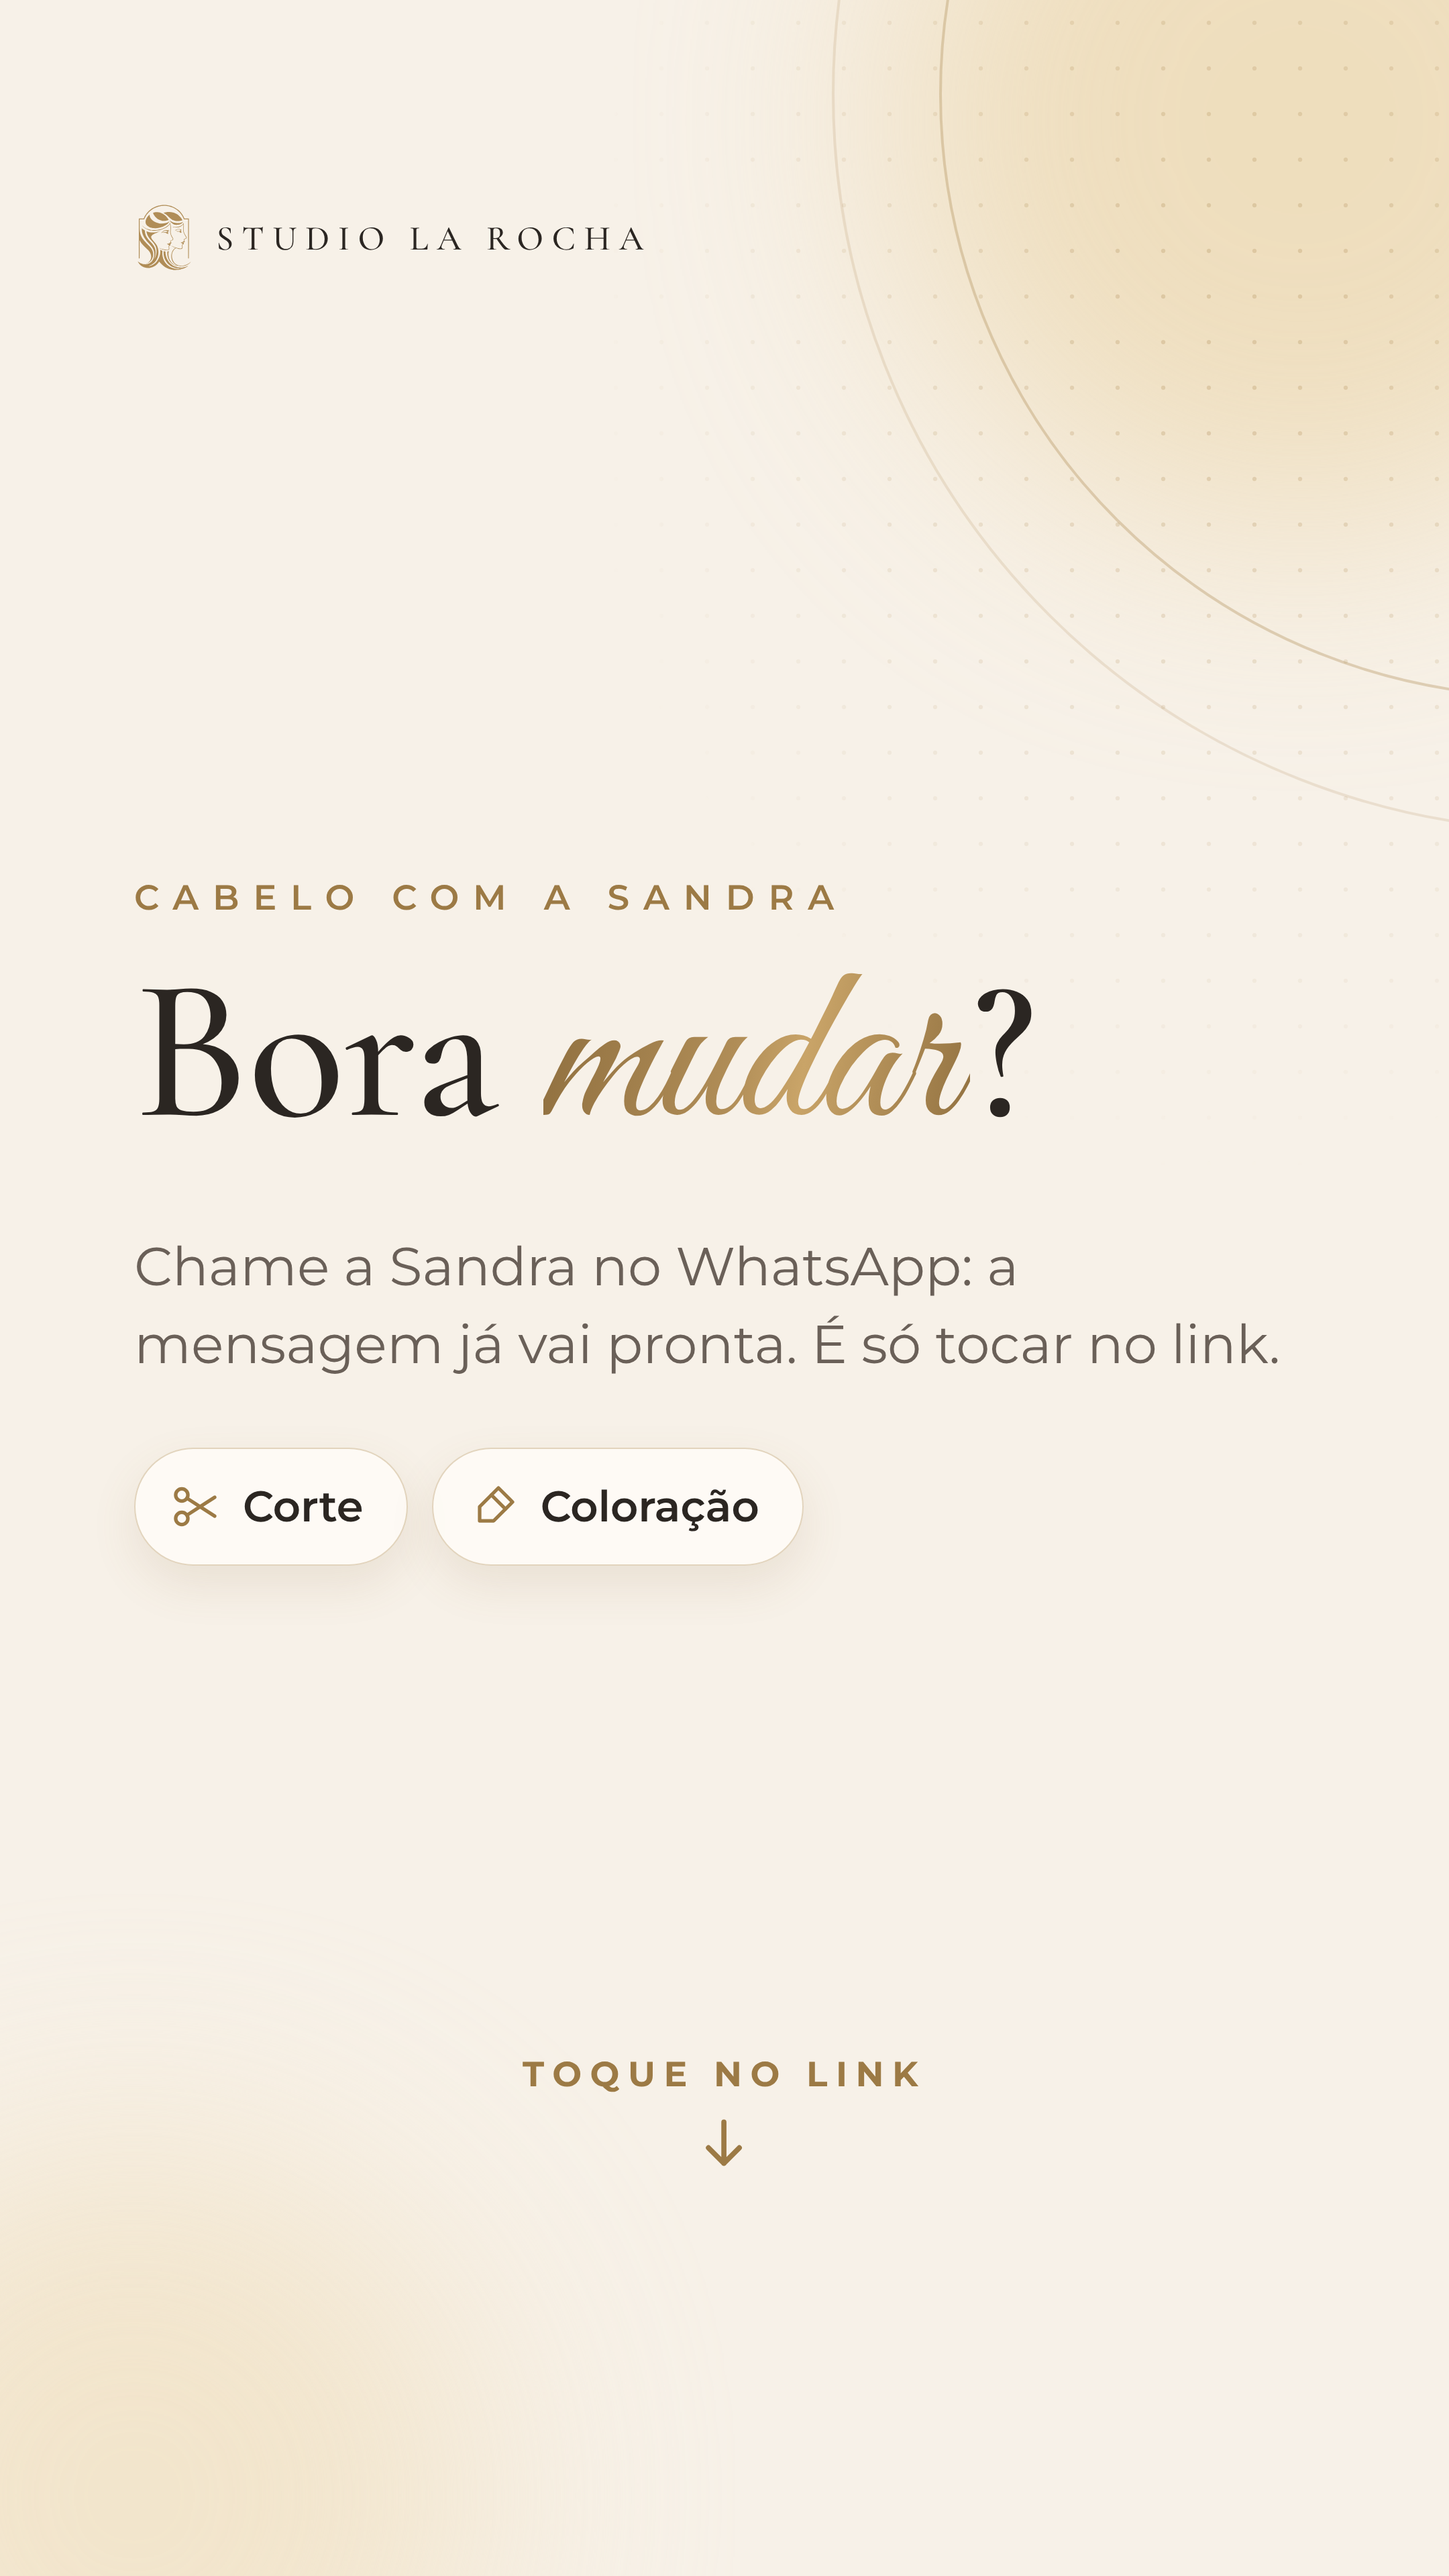
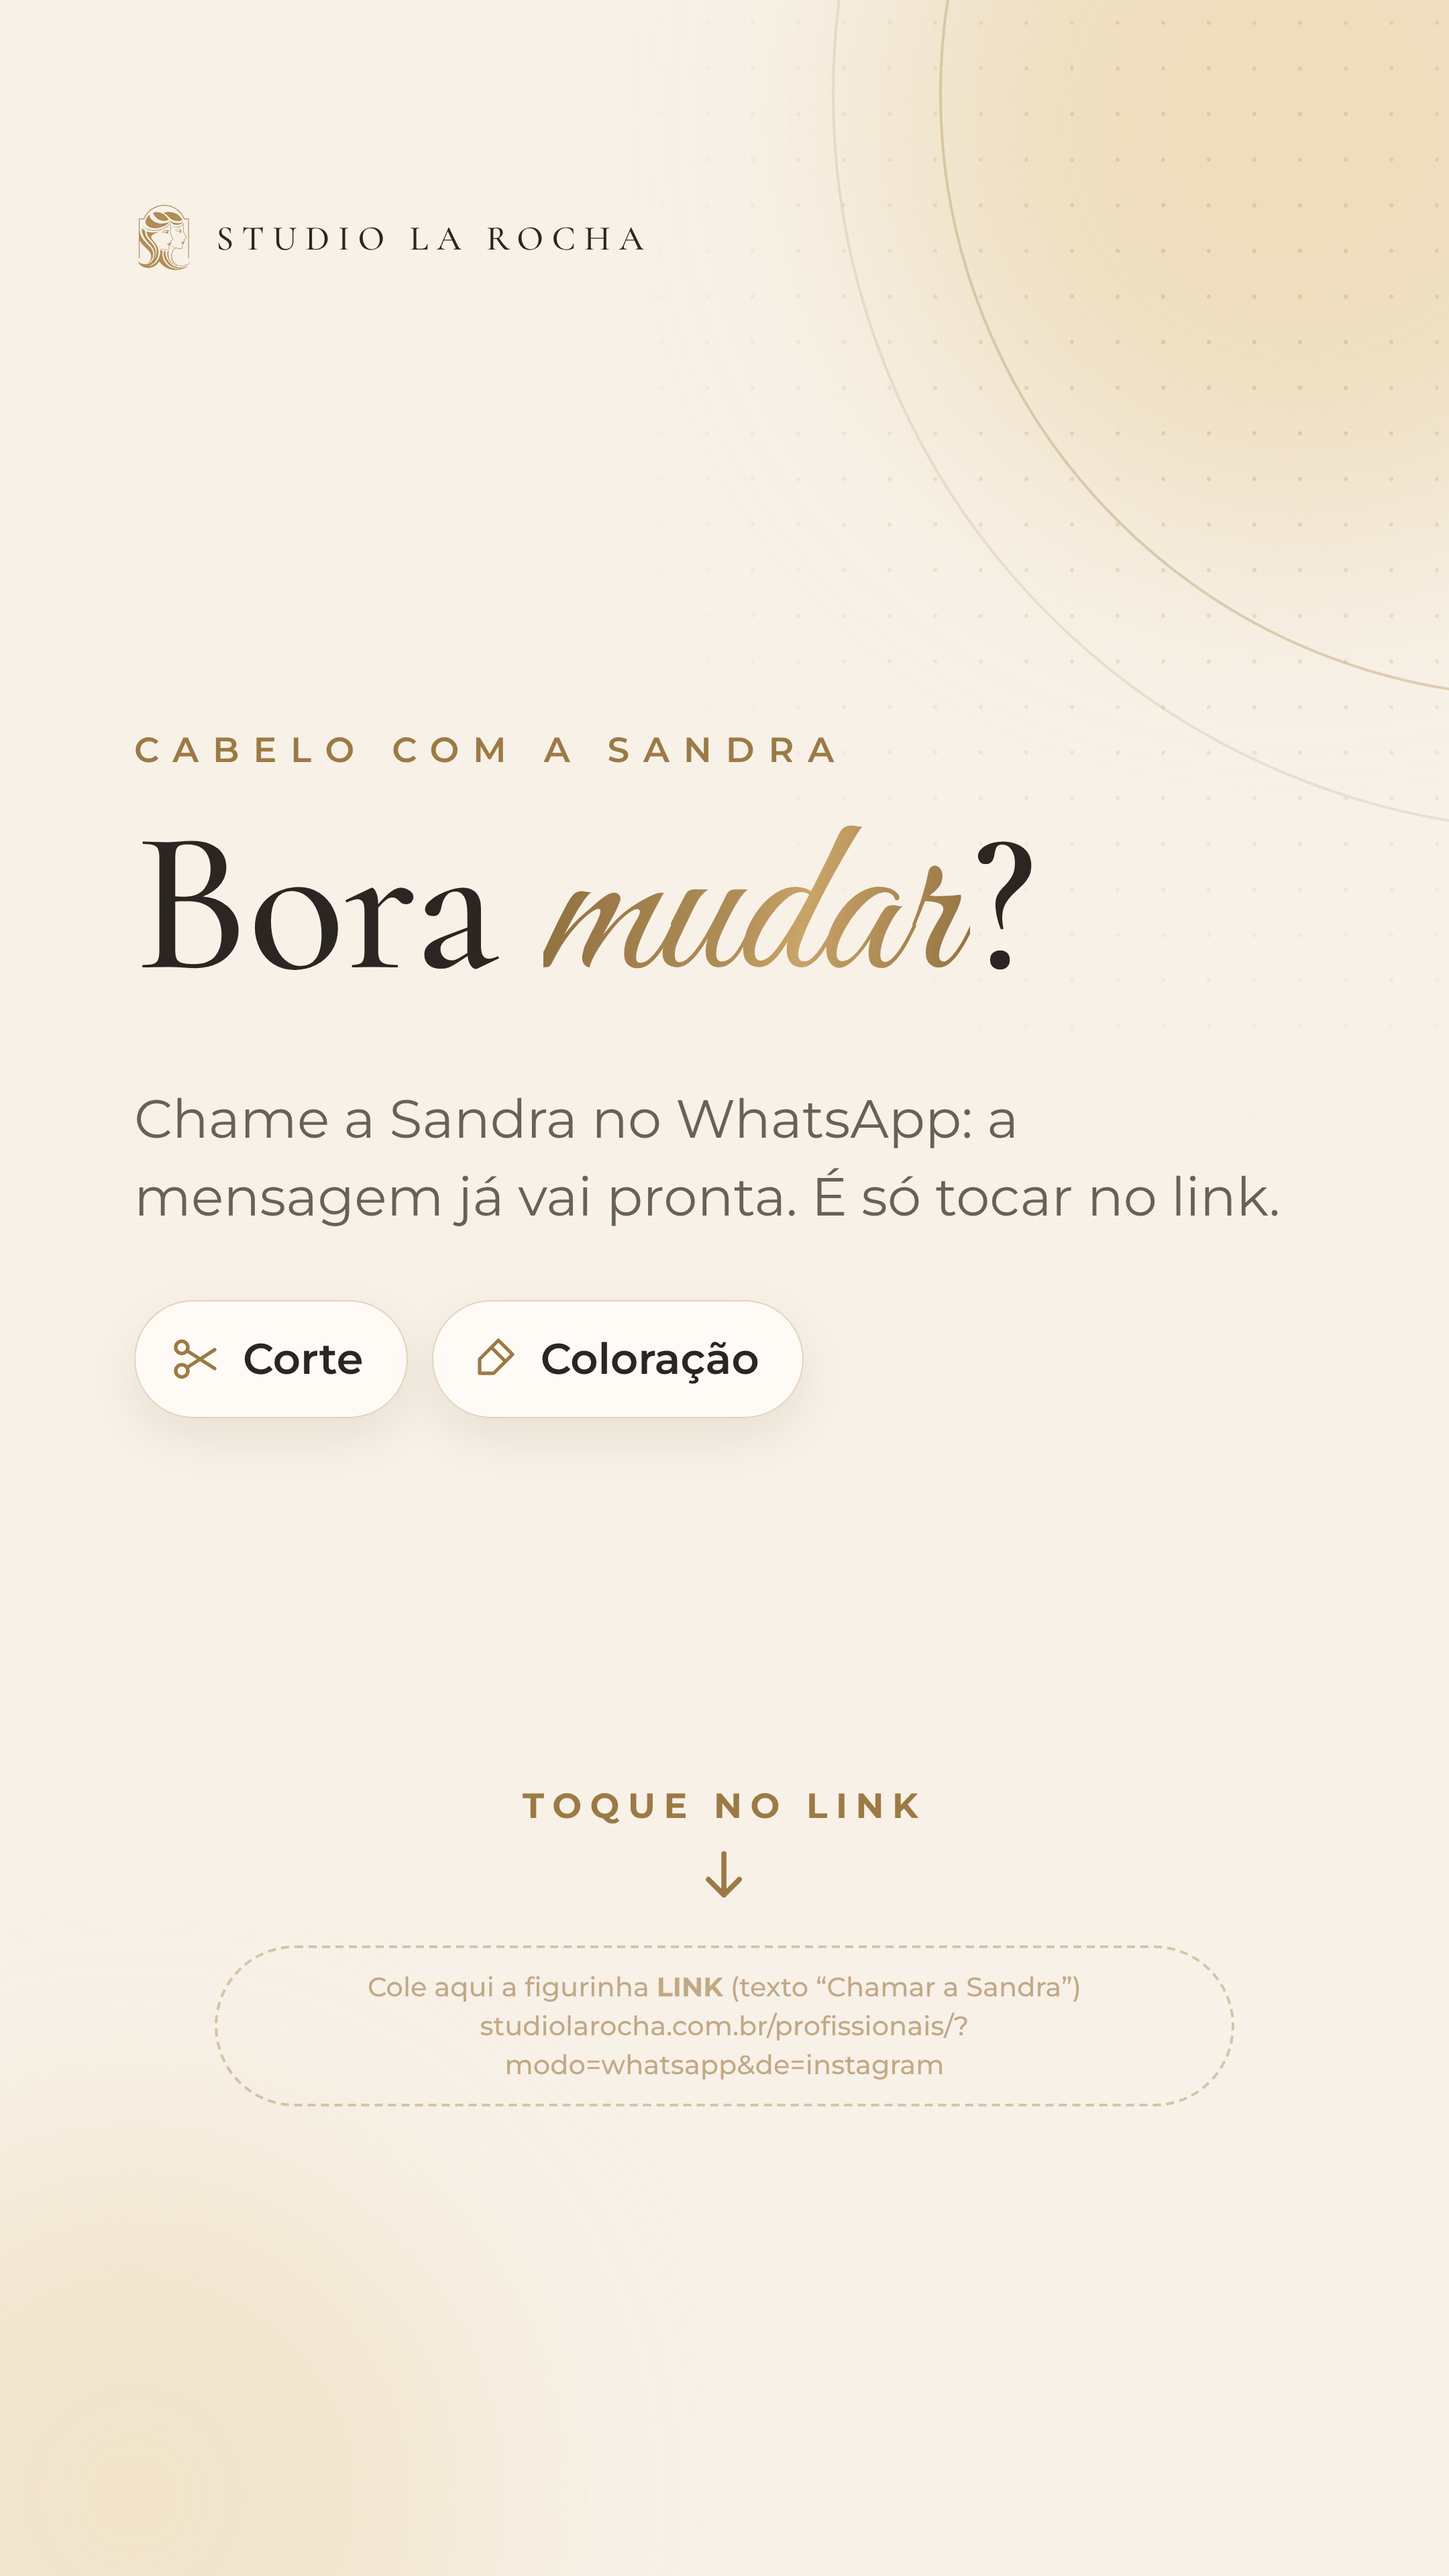
Stories: instruções discretas de figurinha dentro dos quadros (enquete, perguntas, link)
Claude-Session: https://claude.ai/code/session_01XzVqx6kG6obyTxXfpJ6DA2

diff --git a/instagram/fonte/stories-carrossel.html b/instagram/fonte/stories-carrossel.html
@@ -146,6 +146,14 @@
   .car .servico h3 { font-size: 40px; } .car .servico p { font-size: 29px; }
   .car .gancho { font-size: 150px; }
   .car .lead { font-size: 38px; }
+  .vote { justify-content: space-between; padding-bottom: 34px; }
+  .dica-fig { display: block; text-align: center; font-size: 25px; line-height: 1.55; font-weight: 500; max-width: 700px; margin: auto; }
+  .claro .dica-fig { color: rgba(156,122,69,.6); } .escuro .dica-fig { color: rgba(201,164,104,.55); }
+  .dica-fig em { font-style: normal; font-weight: 700; }
+  .st .seta-baixo { bottom: 500px; }
+  .alvo-link { position: absolute; left: 50%; transform: translateX(-50%); bottom: 350px; width: 760px; height: 120px; border-radius: 99px; display: grid; place-items: center; text-align: center; padding: 0 40px; }
+  .claro .alvo-link { border: 2px dashed rgba(176,141,87,.45); } .escuro .alvo-link { border: 2px dashed rgba(201,164,104,.45); }
+  #s1-3, #s2-3 { padding-bottom: 640px; }
 </style>
 <style>
   /* ---------- stories 1080x1920 (zona segura: 250px em cima, 340px embaixo) ---------- */
@@ -209,7 +217,7 @@
 <div class="rotulo">Fim de ano chegando…</div>
 <h2 class="gancho">Qual o seu <em>cansaço</em>?</h2>
 <p class="lead">Vote aqui embaixo. Na próxima tela, a gente te conta o que pode ajudar. 🤍</p>
-<div class="vote"><b>Vote aqui</b></div></section>
+<div class="vote"><b>Vote aqui</b><span class="dica-fig">Cole aqui a figurinha <em>ENQUETE</em><br>Pergunta: “Qual o seu cansaço?”<br>Opções: “Cabeça a mil 🤯” e “Corpo travado 😮💨”</span></div></section>
 <section class="post chamada st claro centro" id="s1-2"><i class="luz a"></i><i class="luz b"></i><div class="pontos"></div><div class="arco um"></div><div class="arco dois"></div><div class="topo"><div class="mini"><img src="simbolo-colorido.svg" alt="">STUDIO LA ROCHA</div></div>
 <div class="rotulo">Votou em qualquer uma?</div>
 <h2 class="gancho">A gente tem um <em>cuidado</em> pra isso</h2>
@@ -221,23 +229,23 @@
 <div class="mes">Dezembro</div>
 <p class="lead">Últimas vagas aos sábados. Escolha o seu e garanta o seu horário:</p>
 <div class="sabs"><div class="sab"><small>Sábado</small><strong>12</strong><span>Vagas</span></div><div class="sab"><small>Sábado</small><strong>19</strong><span>Vagas</span></div></div>
-<div class="seta-baixo">Toque no link<svg viewBox="0 0 24 24" fill="none" stroke="#E3C88F" stroke-width="2" stroke-linecap="round" stroke-linejoin="round"><path d="M12 4v16M6 14l6 6 6-6"/></svg></div></section>
+<div class="seta-baixo">Toque no link<svg viewBox="0 0 24 24" fill="none" stroke="#E3C88F" stroke-width="2" stroke-linecap="round" stroke-linejoin="round"><path d="M12 4v16M6 14l6 6 6-6"/></svg></div><div class="alvo-link"><span class="dica-fig" style="font-size:20px;line-height:1.45">Cole aqui a figurinha <em>LINK</em> (texto “Agendar meu sábado”)<br>studiolarocha.com.br/agenda/?p=amanda</span></div></section>
 <section class="post chamada st claro" id="s2-1"><i class="luz a"></i><i class="luz b"></i><div class="pontos"></div><div class="arco um"></div><div class="arco dois"></div><div class="topo"><div class="mini"><img src="simbolo-colorido.svg" alt="">STUDIO LA ROCHA</div></div>
 <div class="rotulo">Pergunte à Sandra</div>
 <h2 class="gancho">Corte ou <em>cor</em>?</h2>
 <p class="lead">Manda aqui a sua dúvida sobre <b>corte</b> ou <b>coloração</b>. A Sandra responde aqui nos stories. ✂</p>
-<div class="vote"><b>Sua pergunta</b></div></section>
+<div class="vote"><b>Sua pergunta</b><span class="dica-fig">Cole aqui a figurinha <em>PERGUNTAS</em><br>Texto: “Sua dúvida de corte ou cor 💇♀”</span></div></section>
 <section class="post chamada st escuro" id="s2-2"><i class="luz a"></i><i class="luz b"></i><div class="pontos"></div><div class="arco um"></div><div class="arco dois"></div><div class="topo"><div class="mini"><img src="simbolo-claro-transp.svg" alt="">STUDIO LA ROCHA</div></div>
 <div class="rotulo">Responde rapidinho</div>
 <h2 class="gancho">Fim de ano pede <em>mudança</em>?</h2>
 <p class="lead">Corte novo, cor nova ou os dois? Conta pra gente. 💛</p>
-<div class="vote"><b>Vote aqui</b></div></section>
+<div class="vote"><b>Vote aqui</b><span class="dica-fig">Cole aqui a figurinha <em>ENQUETE</em><br>Opções: “Corte novo ✂” e “Cor nova 🎨”</span></div></section>
 <section class="post chamada st claro centro" id="s2-3"><i class="luz a"></i><i class="luz b"></i><div class="pontos"></div><div class="arco um"></div><div class="arco dois"></div><div class="topo"><div class="mini"><img src="simbolo-colorido.svg" alt="">STUDIO LA ROCHA</div></div>
 <div class="rotulo">Cabelo com a Sandra</div>
 <h2 class="gancho">Bora <em>mudar</em>?</h2>
 <p class="lead">Chame a Sandra no WhatsApp: a mensagem já vai pronta. É só tocar no link.</p>
 <div class="pilulas"><span class="pilula"><svg viewBox="0 0 24 24" fill="none" stroke="#9C7A45" stroke-width="1.5" stroke-linecap="round" stroke-linejoin="round"><circle cx="6" cy="7" r="2.6"/><circle cx="6" cy="17" r="2.6"/><path d="M8.2 8.4L20 16M8.2 15.6L20 8"/></svg>Corte</span><span class="pilula"><svg viewBox="0 0 24 24" fill="none" stroke="#9C7A45" stroke-width="1.5" stroke-linecap="round" stroke-linejoin="round"><path d="M14 4l6 6-8 8H6v-6z"/><path d="M11 7l6 6"/></svg>Coloração</span></div>
-<div class="seta-baixo">Toque no link<svg viewBox="0 0 24 24" fill="none" stroke="#9C7A45" stroke-width="2" stroke-linecap="round" stroke-linejoin="round"><path d="M12 4v16M6 14l6 6 6-6"/></svg></div></section>
+<div class="seta-baixo">Toque no link<svg viewBox="0 0 24 24" fill="none" stroke="#9C7A45" stroke-width="2" stroke-linecap="round" stroke-linejoin="round"><path d="M12 4v16M6 14l6 6 6-6"/></svg></div><div class="alvo-link"><span class="dica-fig" style="font-size:20px;line-height:1.45">Cole aqui a figurinha <em>LINK</em> (texto “Chamar a Sandra”)<br>studiolarocha.com.br/profissionais/?modo=whatsapp&amp;de=instagram</span></div></section>
 <section class="post car escuro centro" id="k1"><i class="luz a"></i><i class="luz b"></i><div class="pontos"></div><div class="arco um"></div><div class="arco dois"></div><div class="topo"><div class="mini"><img src="simbolo-claro-transp.svg" alt="">STUDIO LA ROCHA</div><span class="pag">01 / 06</span></div><div class="rotulo">Antes da correria de dezembro</div>
 <h2 class="gancho">O seu checklist de <em>autocuidado</em></h2>
 <p class="lead">Quatro cuidados para chegar ao fim do ano se sentindo bem com você. Quantos você já marcou?</p><div class="marca-rod">@STUDIOLAROCHA</div><div class="arraste">Arraste<svg viewBox="0 0 24 24" fill="none" stroke="#E3C88F" stroke-width="2" stroke-linecap="round" stroke-linejoin="round"><path d="M5 12h14M13 6l6 6-6 6"/></svg></div></section>

diff --git a/CLAUDE.md b/CLAUDE.md
@@ -71,7 +71,7 @@ Este arquivo é a memória do projeto. Quem continuar o trabalho (Claude ou pess
 - **3 posts de chamada** (gancho para prender atenção; a Amanda posta): Auriculoterapia ("Cabeça a mil? Sono leve?"), Limpeza de pele ("Pele cansada?"), Manicure e pedicure. Fonte `instagram/fonte/chamadas.html`, `node exportar-chamadas.cjs`; legendas na seção 3a do LEIA-ME. Saúde: só "pode ajudar" + aviso; sem prometer resultado. Pedicure já é oferecida (sem selo "em breve").
 - **Aviso de agenda da Amanda (nov/2026):** destaque em "Dezembro"; sábados 5 e 26 lotados, 12 e 19 com vagas (gatilho de escassez real, sem inventar); feed e story. Fonte `instagram/fonte/aviso-agenda.html` (lista `SABADOS` no topo do gerador, já gravada no HTML).
 - **3 posts de dicas** (`dica-1-pele`, `dica-2-unhas`, `dica-3-sono`; fonte `fonte/dicas.html`, `node exportar-dicas.cjs`): conteúdo para salvar/compartilhar. Dicas só gerais; Amanda revisa pele e sono, Sandra revisa unhas.
-- **Stories e carrossel (10/11):** pasta `instagram/stories/` (Story 1 "Qual o seu cansaço?" → auriculoterapia → link da agenda da Amanda; Story 2 "Corte ou cor?" da Sandra com caixinha, enquete e link do WhatsApp) e `instagram/carrossel-checklist/` (6 slides "Checklist de autocuidado"). Fonte `fonte/stories-carrossel.html` + `exportar-stories-carrossel.cjs`. Stories têm quadro tracejado onde vai a figurinha; instruções e legenda no LEIA-ME (3e, 3f). Kevin preferiu beleza (corte/cor) em vez de "Pergunte à enfermeira".
+- **Stories e carrossel (10/11):** pasta `instagram/stories/` (Story 1 "Qual o seu cansaço?" → auriculoterapia → link da agenda da Amanda; Story 2 "Corte ou cor?" da Sandra com caixinha, enquete e link do WhatsApp) e `instagram/carrossel-checklist/` (6 slides "Checklist de autocuidado"). Fonte `fonte/stories-carrossel.html` + `exportar-stories-carrossel.cjs`. Stories têm quadro tracejado com instrução discreta (qual figurinha colar e o texto/link), que fica escondida sob a figurinha; instruções e legenda no LEIA-ME (3e, 3f). Kevin preferiu beleza (corte/cor) em vez de "Pergunte à enfermeira".
 - **Estratégia de vendas e crescimento:** `instagram/ESTRATEGIA.md` (5 tipos de post, ritmo, crescimento local, medição, o que não fazer). Seguir como guia de todo conteúdo novo.
 - Bio: `Studio La Rocha | Salão em Mauá` / "Beleza, saúde e bem-estar ✨ / Cabelo · Unhas · Auriculoterapia · Limpeza de pele / Por @sandraaparecida5566 e @amandarochaat / 📍 Mauá - SP · Agende 👇". Trocar o link da bio e do WhatsApp Business para o domínio (HTTPS).
 - Próximo passo estratégico: **dia de fotos** (Sandra + Amanda juntas, retratos individuais, espaço/cadeiras/lavatório/maca, vídeo curto de 10–15s) e então carrossel, Reels e destaques com foto. Perfil só com arte ainda parece "vazio".
